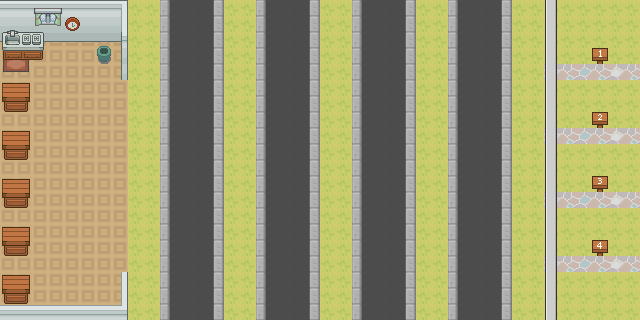
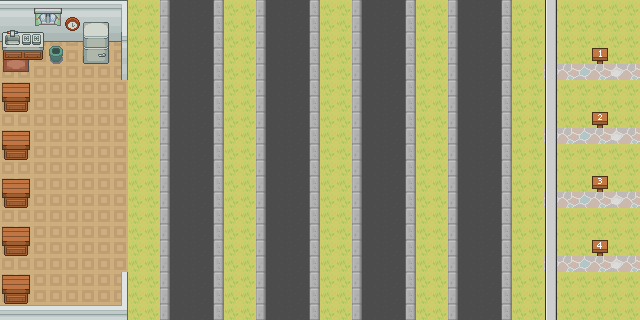
Added hud

Changed region(s): [[0.0625, 0.0625, 0.1875, 0.2188]]

diff --git a/assets/map/hud_box.tsx b/assets/map/hud_box.tsx
@@ -1,0 +1,4 @@
+<?xml version="1.0" encoding="UTF-8"?>
+<tileset version="1.2" tiledversion="1.2.0" name="hud_box" tilewidth="16" tileheight="16" tilecount="9" columns="3">
+ <image source="hud_box.png" width="48" height="48"/>
+</tileset>
